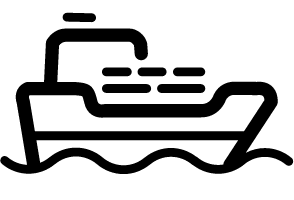
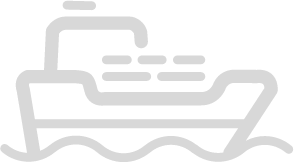
客户模块: 修改Booking的里程碑图标

diff --git a/WebRoot/WEB-INF/template/oms/bookingOrder/bookingOrderEdit.html b/WebRoot/WEB-INF/template/oms/bookingOrder/bookingOrderEdit.html
@@ -8,75 +8,131 @@
 	<div class="row simple_search_div">
     	<div class="col-lg-12" style="margin:5px 0 15px 0;">
         	<div style="width:10%;float:left;text-align:center;">
-				<h4 <% if(order.create_stamp!''!=''){%>style="color:green;"<%}%>>
-                	<img src="/images/booking.png" style="width: 50px;"> <span>Booking</span>
-                	</h4>
-				<% if(order.create_stamp!'' != null && order.create_stamp!'' !=''){%>
-              		<span style="color:green;">${order.create_stamp!''}创建</span>
-           		<%}%>
+                <% if(order.create_stamp!'' != null && order.create_stamp!''!=''){%>
+                    <h4 style="color:green;">
+                    <img src="/images/booking_green.png" style="width: 30px;"> <span>Booking</span>
+                    </h4>
+                    <span style="color:green;">${order.create_stamp!''}创建</span>
+                <%} else {%>
+				    <h4>
+                        <img src="/images/booking.png" style="width: 30px; color:#d8d8d8;"> <span>Booking</span>
+                    </h4>
+                    <span style="color:#d8d8d8;">${order.create_stamp!''}创建</span>
+                <%}%>
+				
 			</div>
 	    	<div style="width:8%;float:left;text-align:center;">
-	        	<div class="booking_line"></div>
+                <% if(job_eta!''!=''){%>
+	        	      <img src="/images/line_arrow_green.png" style="width: 100%;padding-top: 20%;">
+                <%} else{ %>
+                    <img src="/images/line_arrow.png" style="width: 100%;padding-top: 20%;">
+                <%}%>
 			</div>
 					
 	    	<div style="width:10%;float:left;text-align:center;">
-	        	<h4 style="padding-top:5px;" <% if(job_eta!''!=''){%>style="color:green;"<%}%>>
-                	<img src="/images/货车装车.png" style="width: 50px;margin-top:-10px;"> <span <% if(job_eta!''!=''){%>style="color:green;"<%}%>>提货</span>
-                </h4>
-	        	<% if(job_eta!'' != null && job_eta!'' !=''){%>
-	            	<span id="sendCar" style="color:green;">预计${job_eta!''}到厂</span>
-	        	<%}%>
+                <% if(job_eta!''!=''){%>
+                    <h4 style="padding-top:5px; color:green;">
+                        <img src="/images/货车装车_green.png" style="width: 50px;margin-top:-10px;"> <span style="color:green;">提货</span>
+                    </h4>
+                    <span id="sendCar" style="color:green;">预约${job_eta!''}到厂</span>
+                <%} else {%>
+                    <h4 style="padding-top:5px;color:#d8d8d8;">
+                        <img src="/images/货车装车.png" style="width: 50px;margin-top:-10px;"> <span style="color:#d8d8d8;">提货</span>
+                    </h4>
+                    <span id="sendCar" style="color:#d8d8d8;">预约${job_eta!''}到厂</span>
+                <%}%>
 			</div>
 	        <div style="width:8%;float:left;text-align:center;">
-	        	<div class="booking_line"></div>
+	        	<% if(job_status!''!=''){%>
+                      <img src="/images/line_arrow_green.png" style="width: 100%;padding-top: 20%;">
+                <%} else{ %>
+                    <img src="/images/line_arrow.png" style="width: 100%;padding-top: 20%;">
+                <%}%>
 			</div>
 	              		
 	        <div style="width:10%;float:left;text-align:center;">
-				<h4 <% if(job_status!''!=''){%>style="color:green;"<%}%>>
-                	<img src="/images/报关.png" style="width: 50px;"> 报关
-            	</h4>
+                <% if(job_status!''!=''){%>
+    				<h4 style="color:green;">
+                    	<img src="/images/报关_green.png" style="width: 30px;"> 报关
+                	</h4>
+                <%} else{ %>
+                    <h4 style="color:#d8d8d8;">
+                        <img src="/images/报关.png" style="width: 30px;"> 报关
+                    </h4>
+                <%}%>
 				<% if(job_custom_order_no!'' != null && job_custom_order_no!'' !=''){%>
 					<label id="custom" style="color:green;>报关单号：</label>${job_custom_order_no!''}
 				<%}%>
 				<% if(job_status!'' != null && job_status!'' !=''){%>
-					<br/>
-					<label id="custom" style="color:green;">状态：</label>${job_status!''}
+					<label id="custom" style="color:green;">状态：${job_status!''}</label>
 				<%}%>
 			</div>
 	        <div style="width:8%;float:left;text-align:center;">
-	        	<div class="booking_line"></div>
+	        	<% if(job_atd!''!=''){%>
+                      <img src="/images/line_arrow_green.png" style="width: 100%;padding-top: 20%;">
+                <%} else{ %>
+                    <img src="/images/line_arrow.png" style="width: 100%;padding-top: 20%;">
+                <%}%>
 			</div>
 	              		
 	        <div style="width:10%;float:left;text-align:center;">
-				<h4 style="padding-top: 10px;"<% if(job_atd!''!=''){%>style="color:green;"<%}%>>
-                	<img src="/images/轮船.png" style="width: 50px;" > 
-                	<span <% if(job_eta!''!=''){%>style="color:green;"<%}%>>离港</span>
-                </h4>
+                <% if(job_atd!''!=''){%>
+    				<h4 style="padding-top: 10px; color:green;">
+                    	<img src="/images/轮船_green.png" style="width: 50px;" > 
+                    	<span style="color:green;">离港</span>
+                    </h4>
+                <%} else{%>
+                    <h4 style="padding-top: 10px;color:#d8d8d8;">
+                        <img src="/images/轮船.png" style="width: 50px;" > 
+                        <span>离港</span>
+                    </h4>
+                <%}%>
 				<% if(job_atd!'' != null && job_atd!'' !=''){%>
 	            	<span id="boarding" style="color:green;">${job_atd!''}开船</span>
 	            <%}%>
 			</div>
 	        <div style="width:8%;float:left;text-align:center;">
-	            <div class="booking_line"></div>
+	            <% if(job_ata!''!=''){%>
+                      <img src="/images/line_arrow_green.png" style="width: 100%;padding-top: 20%;">
+                <%} else{ %>
+                    <img src="/images/line_arrow.png" style="width: 100%;padding-top: 20%;">
+                <%}%>
 			</div>
 	              		
-	        <div style="width:10%;float:left;text-align:center;">
-				<h4 <% if(job_ata!''!=''){%>style="color:green;"<%}%>>
-                	<img src="/images/check.png" style="width: 50px;"> 到港
-                </h4>
+	        <div style="width:10%;float:left;text-align:center;padding-top: 10px;">
+                <% if(job_ata!''!=''){%>
+    				<h4 style="color:green;">
+                    	<img src="/images/check_green.png" style="width: 30px;"> 到港
+                    </h4>
+                <%} else{ %>
+                    <h4 style="color:#d8d8d8;">
+                        <img src="/images/check.png" style="width: 30px;"> 到港
+                    </h4>
+                <% }%>
 				<% if(job_ata!'' != null && job_ata!'' !=''){%>
 	              	<span id="arrival" style="color:green;">${job_ata!''}到港</span>
 	            <%}%>
 			</div>
 			<div style="width:8%;float:left;text-align:center;">
-	            <div class="booking_line"></div>
+	            <% if(job_atd!''!=''){%>
+                      <img src="/images/line_arrow_green.png" style="width: 100%;padding-top: 20%;">
+                <%} else{ %>
+                    <img src="/images/line_arrow.png" style="width: 100%;padding-top: 20%;">
+                <%}%>
 			</div>
 					
 			<div style="width:10%;float:left;text-align:center;">
-				<h4 style="padding-top: 10px;"<% if(job_atd!''!=''){%>style="color:green;"<%}%>>
-                	<img src="/images/货车装车.png" style="width: 50px;margin-top:-10px;"> 
-                	<span <% if(job_eta!''!=''){%>style="color:green;"<%}%>>送货</span>
-                </h4>
+                <% if(job_atd!''!=''){%>
+    				<h4 style="padding-top: 10px;color:green;">
+                    	<img src="/images/货车装车_green.png" style="width: 50px;margin-top:-10px;"> 
+                    	<span <% if(job_eta!''!=''){%>style="color:green;"<%}%>>送货</span>
+                    </h4>
+                <%}else{%>
+                    <h4 style="padding-top: 10px;color:#d8d8d8;">
+                        <img src="/images/货车装车.png" style="width: 50px;margin-top:-10px;"> 
+                        送货
+                    </h4>
+                <%}%>
 				<% if(job_atd!'' != null && job_atd!'' !=''){%>
 	              	<span id="boarding" style="color:green;">${job_ata!''}送货</span>
 	            <%}%>
